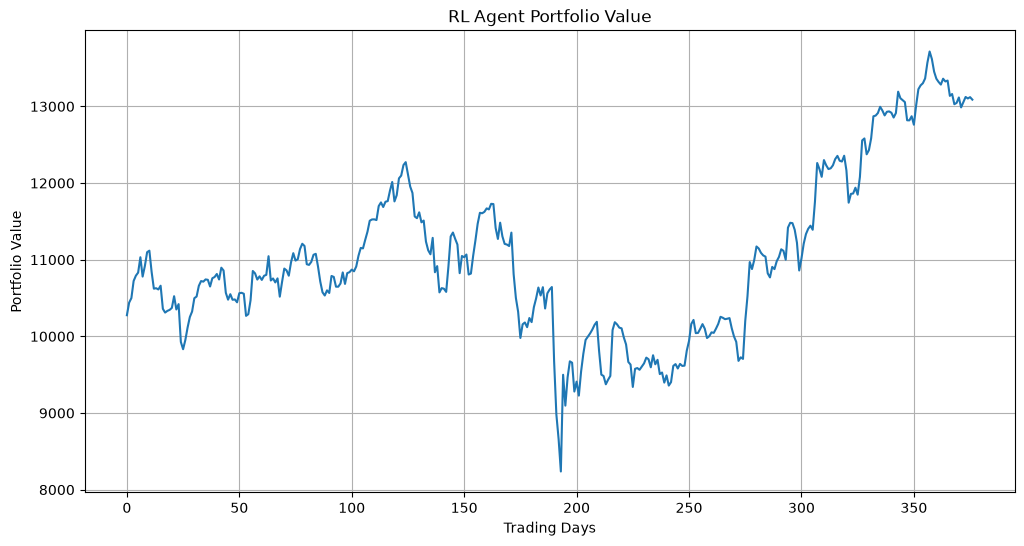
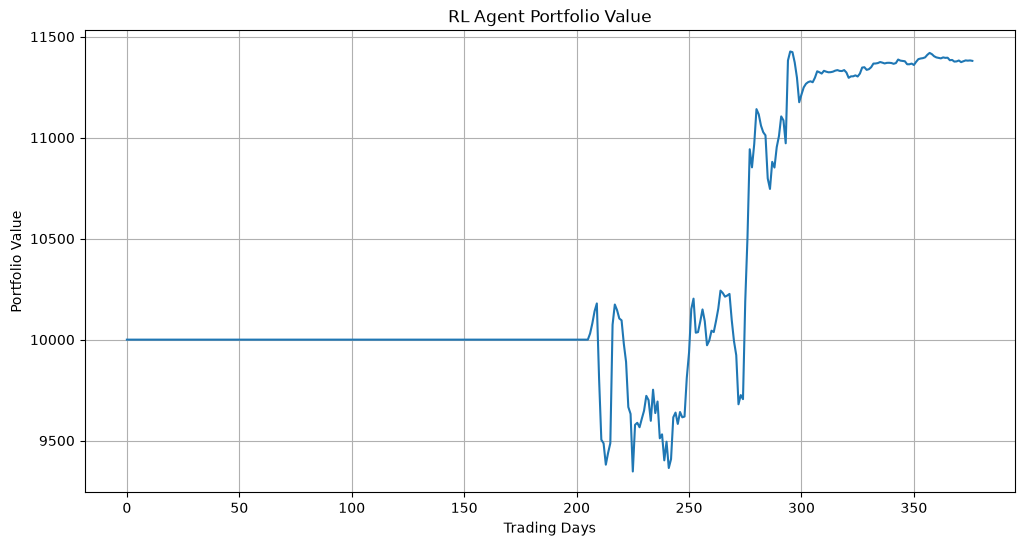
Added drawdown-aware reward function

diff --git a/src/trading_env.py b/src/trading_env.py
@@ -258,10 +258,25 @@ class TradingEnv(gym.Env):
         )
 
         # Reward = change in portfolio value
-        reward = (
+        portfolio_return = (
             self.portfolio_value -
             previous_portfolio_value
         ) / previous_portfolio_value
+
+        reward = portfolio_return
+
+        peak_value = max(
+            self.portfolio_history
+        )
+
+        drawdown = (
+            peak_value -
+            self.portfolio_value
+        ) / peak_value
+
+        reward -= (
+            drawdown * 0.001
+        )
 
 
         observation = self._get_observation()
@@ -270,7 +285,8 @@ class TradingEnv(gym.Env):
             "portfolio_value": self.portfolio_value,
             "cash": self.cash,
             "shares_held": self.shares_held,
-            "trade_count": self.trade_count
+            "trade_count": self.trade_count,
+            "drawdown": drawdown
         }
 
         return (

diff --git a/src/train.py b/src/train.py
@@ -23,11 +23,11 @@ model = PPO(
 )
 
 model.learn(
-    total_timesteps=500000
+    total_timesteps=200000
 )
 
 model.save(
-    "../models/ppo_aapl_v6"
+    "../models/ppo_aapl_v7"
 )
 
 print("Training completed.")

diff --git a/src/evaluate.py b/src/evaluate.py
@@ -15,7 +15,7 @@ from trading_env import TradingEnv
 
 # Load trained model
 model = PPO.load(
-    "../models/ppo_aapl_v6"
+    "../models/ppo_aapl_v7"
 )
 
 # Load test data